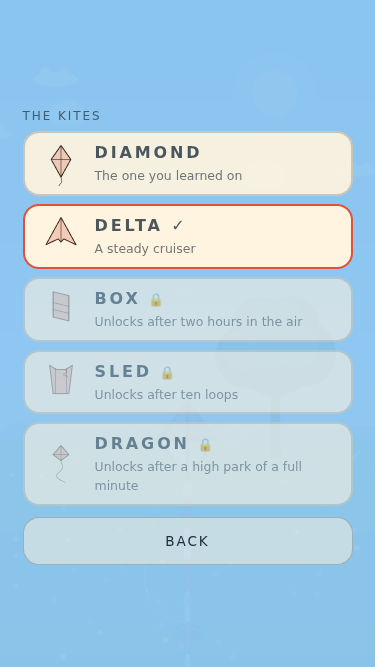
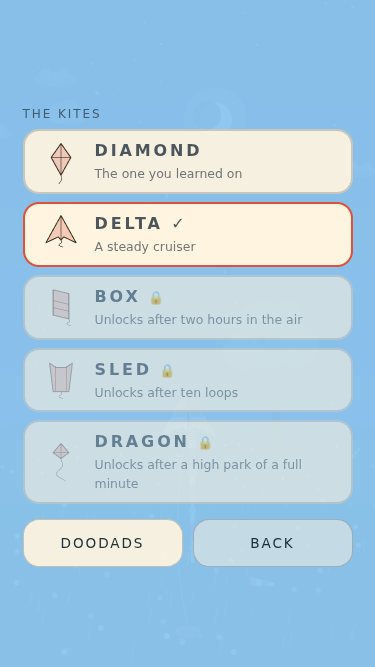
Updraft B4: call 70, short tails hung under the sail on the cards and a Fresh shudder line of 0.85, stamp 20260915a
Claude-Session: https://claude.ai/code/session_01SRMtHXtJx3kNJPZ7viGJpE

Changed region(s): [[0.0587, 0.1499, 0.9387, 0.8696], [0.5573, 0.8096, 0.9387, 0.8696], [0.0587, 0.4798, 0.088, 0.5097]]

diff --git a/satellites/updraft/index.html b/satellites/updraft/index.html
@@ -9,9 +9,9 @@
 <meta name="apple-mobile-web-app-capable" content="yes">
 <meta name="apple-mobile-web-app-status-bar-style" content="black-translucent">
 <meta name="apple-mobile-web-app-title" content="UPDRAFT">
-<link rel="manifest" href="./manifest.webmanifest?v=20260908e">
-<link rel="apple-touch-icon" href="./icon-192.png?v=20260908e">
-<link rel="icon" href="./icon-192.png?v=20260908e">
+<link rel="manifest" href="./manifest.webmanifest?v=20260915a">
+<link rel="apple-touch-icon" href="./icon-192.png?v=20260915a">
+<link rel="icon" href="./icon-192.png?v=20260915a">
 <link rel="canonical" href="https://lucidwinds.com/satellites/updraft/">
 <style>
 /*  UPDRAFT
@@ -185,7 +185,7 @@ html,body{margin:0;padding:0;height:100%;background:#8CC6F0;color:var(--ink);
 #testPanel.on{display:block}
 @media (prefers-reduced-motion:reduce){*{transition-duration:1ms!important}}
 </style>
-<script src="/music-unlocks.js?v=20260908e" defer></script>
+<script src="/music-unlocks.js?v=20260915a" defer></script>
 </head>
 <body>
 <h1 style="position:absolute;width:1px;height:1px;margin:-1px;padding:0;overflow:hidden;clip:rect(0 0 0 0);clip-path:inset(50%);white-space:nowrap;border:0">UPDRAFT</h1>
@@ -326,7 +326,7 @@ var CONFIG = Object.freeze({
   THERMAL_UP: 1.5, THERMAL_R: 12, THERMAL_X: 6, THERMAL_Z: 38, THERMAL_PUSH: 4.5,
   STALL_V: 1.6, STALL_LIFT: 0.15, STALL_FALL: 2, STALL_SINK: 6,
   LEAN_TURN_RATE: 2.2, WINDOW_FLOOR: 0, EL_MAX: 1.0,
-  SNAP_TENSION: 1.0, SNAP_HOLD_S: 0.4, STRAIN_AT: 0.75,
+  SNAP_TENSION: 1.0, SNAP_HOLD_S: 0.4, STRAIN_AT: 0.75, STRAIN_AT_FRESH: 0.85,
   TAIL_PTS: 16, TAIL_SEG: 0.35, TAIL_AIRF: 0.94, TAIL_DRAG: 15, TAIL_CRACK_V: 12,
   SETTLE_S: 1.4, SETTLE_WIND: 5, /* the landing flourish: the tail lays out over the grass for this long, in this much ground wind */
   APPARENT_MASS: 0.4, LINE_MASS: 0.002, MOTION_CD: 1.2, MOTION_V0: 2, RHO: 1.2, G: 9.81,
@@ -396,25 +396,28 @@ var KITE_SHAPE = {
   /* the one everybody draws: a tall lozenge on a cross */
   diamond: { poly: [[0, 1], [0.62, 0.12], [0, -1], [-0.62, 0.12]], spars: [[[0, 1], [0, -1]], [[-0.62, 0.12], [0.62, 0.12]]], tail: 'long' },
   /* a swept wing with a deep keel: wide at the nose, drawn back to a point */
-  delta: { poly: [[0, 1], [0.95, -0.72], [0.18, -0.35], [0, -0.55], [-0.18, -0.35], [-0.95, -0.72]], spars: [[[0, 1], [0, -0.55]]], tail: 'none' },
+  delta: { poly: [[0, 1], [0.95, -0.72], [0.18, -0.35], [0, -0.55], [-0.18, -0.35], [-0.95, -0.72]], spars: [[[0, 1], [0, -0.55]]], tail: 'short', tailAt: [0, -0.55] },
   /* two open cells: the only kite here that is a box and not a sail */
-  box: { poly: [[-0.5, 0.92], [0.5, 0.68], [0.5, -0.92], [-0.5, -0.68]], spars: [[[-0.5, 0.24], [0.5, 0]], [[-0.5, -0.2], [0.5, -0.44]], [[-0.5, 0.92], [-0.5, -0.68]], [[0.5, 0.68], [0.5, -0.92]]], tail: 'none' },
+  box: { poly: [[-0.5, 0.92], [0.5, 0.68], [0.5, -0.92], [-0.5, -0.68]], spars: [[[-0.5, 0.24], [0.5, 0]], [[-0.5, -0.2], [0.5, -0.44]], [[-0.5, 0.92], [-0.5, -0.68]], [[0.5, 0.68], [0.5, -0.92]]], tail: 'short' },
+  /* ⛔ the Delta and the Box said 'none' here until call 70 (a), 2026-09-15: their cards drew no tail while both
+     fly the 5.6 m ribbon, because the ribbon is the physics. Only a card's mark reads this field. */
   /* a sheet of cloth with two spars and no frame across it */
-  sled: { poly: [[-0.72, 0.9], [-0.3, 0.62], [0.3, 0.62], [0.72, 0.9], [0.5, -0.9], [-0.5, -0.9]], spars: [[[-0.36, 0.72], [-0.36, -0.86]], [[0.36, 0.72], [0.36, -0.86]]], tail: 'short' },
+  sled: { poly: [[-0.72, 0.9], [-0.3, 0.62], [0.3, 0.62], [0.72, 0.9], [0.5, -0.9], [-0.5, -0.9]], spars: [[[-0.36, 0.72], [-0.36, -0.86]], [[0.36, 0.72], [0.36, -0.86]]], tail: 'short', tailAt: [0, -0.9] },
   /* a small head and a very long body: the tail IS the kite */
   dragon: { poly: [[0, 1], [0.5, 0.42], [0, 0.05], [-0.5, 0.42]], spars: [[[0, 1], [0, 0.05]], [[-0.5, 0.42], [0.5, 0.42]]], tail: 'serpent' }
 };
 /* the silhouette on a small canvas, for a card. One function, so a kite added to
    KITES without a shape draws the diamond and says so rather than drawing
    nothing at all. */
-function drawKiteMark(c, w, h, id, ink, doodad) {
+function drawKiteMark(c, w, h, id, ink, doodad, noTail) {
   var sh = KITE_SHAPE[id] || KITE_SHAPE.diamond;
-  var s = Math.min(w, h) * 0.36, cx = w / 2, cy = h * 0.44, i;
+  var s = Math.min(w, h) * 0.36, cx = w / 2, cy = h * 0.44, i, low = 0;
   var px = function (p) { return [cx + p[0] * s, cy - p[1] * s]; };
   c.clearRect(0, 0, w, h);
   c.beginPath();
   for (i = 0; i < sh.poly.length; i++) {
     var q = px(sh.poly[i]);
+    if (q[1] > low) low = q[1];
     if (i === 0) c.moveTo(q[0], q[1]); else c.lineTo(q[0], q[1]);
   }
   c.closePath();
@@ -430,8 +433,11 @@ function drawKiteMark(c, w, h, id, ink, doodad) {
     c.beginPath(); c.moveTo(a[0], a[1]); c.lineTo(b[0], b[1]); c.stroke();
   }
   /* the tail, which is half of what tells one kite from another on a shelf */
-  if (sh.tail !== 'none') {
-    var t0 = px(sh.poly[sh.tail === 'serpent' ? 2 : 2]);
+  if (sh.tail !== 'none' && !noTail) {
+    /* ⛔ where the tail hangs from. It was always the third outline point, which is the bottom tip of the
+       Diamond, the Box and the Dragon's head, but a notch INSIDE the Delta's sail and the TOP edge of the
+       Sled's, so those two drew their tail over their own cloth (seen in p2-kites, call 70 (a)) */
+    var t0 = px(sh.tailAt || sh.poly[2]);
     var len = sh.tail === 'serpent' ? h * 0.5 : (sh.tail === 'long' ? h * 0.3 : h * 0.16);
     var amp = sh.tail === 'serpent' ? s * 0.42 : s * 0.2;
     c.beginPath();
@@ -444,6 +450,8 @@ function drawKiteMark(c, w, h, id, ink, doodad) {
     c.stroke();
   }
   if (doodad) drawKiteMarkDoodad(c, w, h, id, doodad);
+  /* the lowest row of the sail, so a gate can ask whether the tail hangs BELOW it */
+  return low;
 }
 /* the worn doodad on a card's mark, small, at the place it rides: a tail thing
    at the tail, a spine thing at the spar crossing, a line thing hanging under
@@ -462,6 +470,11 @@ function drawKiteMarkDoodad(c, w, h, id, doodad) {
   else at = [cx + s * 0.55, cy + s * 0.75];
   drawDoodadIcon(c, d.id, at[0], at[1], s * 0.22, 0, 1);
 }
+/* the tension over its limit at which a kite shudders (the whine, the red border, the buzz). Fresh never snaps,
+   so a Fresh shudder at 0.75 was a warning of nothing: at the squall's top with a gust peak and a full hold the
+   Diamond reaches 0.80 there (call 70 (b), 2026-09-15). Every other mood keeps STRAIN_AT, so the snap in
+   Blustery is still warned before it fires. */
+function strainAt(mood) { return mood === 'fresh' ? CONFIG.STRAIN_AT_FRESH : CONFIG.STRAIN_AT; }
 function kiteById(id) {
   var i; for (i = 0; i < KITES.length; i++) if (KITES[i].id === id) return KITES[i];
   return KITES[0];
@@ -819,7 +832,7 @@ function step(st, dt) {
   var radial = (Ls * sinEl + D * cosEl) * Math.max(0, cosAz) - mK * C.G * sinEl + mEff * sp * sp / st.L;
   st.tension = Math.max(0, radial);
   st.tN = st.tension / k.maxTension;
-  st.strain = st.tN >= C.STRAIN_AT;
+  st.strain = st.tN >= strainAt(st.mood);
   if (st.mood === 'blustery' && st.tN >= C.SNAP_TENSION) {
     st.strainS += dt;
     if (st.strainS >= C.SNAP_HOLD_S) { st.ended = 'snap'; st.endT = st.t; st.events.push({ t: st.t, e: 'snap' }); }
@@ -1313,6 +1326,17 @@ function suiteSnap(T) {
   T.assert('in Fresh it never fires under any script', fresh);
   T.assert('and Fresh tension stays under the limit even at the gust peak', fmax < 1, 'max ' + fmax.toFixed(2));
   T.assert('the strain flag lights before the snap', maxTN > CONFIG.STRAIN_AT && st.events.length > 0);
+  /* call 70 (b), 2026-09-15: Fresh never snaps, so it does not shudder where the Diamond reaches at the squall's
+     top (the wind held at ENV_MAX, a Fresh gust, a full hold) */
+  var sq = newFlight({ mood: 'fresh', kite: 'diamond', seed: 3, wind: { gusts: true, gustFixed: 0.4, thermal: false, turb: false, env: false, veer: false }, L: 40, el: 0.5, launched: true });
+  sq.wind.base *= CONFIG.ENV_MAX;
+  var sqMax = 0, sqLit = 0;
+  runScript(sq, [{ t: 0, hold: true, lean: 0 }], 10, function (x) { if (x.tN > sqMax) sqMax = x.tN; if (x.strain) sqLit++; }, 1 / 120);
+  T.assert('(premise) at the Fresh squall\'s top a held Diamond passes STRAIN_AT', sqMax > CONFIG.STRAIN_AT, 'max ' + sqMax.toFixed(3));
+  T.assert('and it does not shudder, because Fresh never snaps', sqLit === 0, sqLit + ' samples lit, max ' + sqMax.toFixed(3));
+  T.assert('Fresh shudders from its own line, under the snap, and every other mood from STRAIN_AT',
+    strainAt('fresh') === CONFIG.STRAIN_AT_FRESH && CONFIG.STRAIN_AT_FRESH < CONFIG.SNAP_TENSION
+    && strainAt('blustery') === CONFIG.STRAIN_AT && strainAt('gentle') === CONFIG.STRAIN_AT);
 }
 function suiteTail(T) {
   var st = newFlight({ mood: 'fresh', seed: 1, wind: NOGUST, L: 40, el: 0.7, launched: true });
@@ -2361,7 +2385,7 @@ var AUDIO = (function () {
     var w = st.wind.base * (st.env || 1) * (1 + st.gust) * (st.onGround ? 0.5 : 1);
     var bedL = Math.min(0.28, 0.03 + w * 0.022);
     var cut = 250 + w * 90;
-    var over = Math.max(0, (st.tN - CONFIG.STRAIN_AT) / (1 - CONFIG.STRAIN_AT));
+    var sAt = strainAt(st.mood), over = Math.max(0, (st.tN - sAt) / (1 - sAt));
     var wh = st.strain && !st.ended ? Math.min(0.12, 0.04 + over * 0.1) : 0;
     var hz = 200 + 700 * Math.min(1, Math.max(0, st.tN));
     /* the whistle: nothing until the airspeed passes WHISTLE_V, then it rises
@@ -2714,7 +2738,7 @@ function shareDaily(t) {
   fallback();
 }
 
-var STAMP = '20260908e';
+var STAMP = '20260915a';
 function showScreen(name) {
   var ids = { title: 'scrTitle', how: 'scrHow', pause: 'scrPause', mood: 'scrMood', kites: 'scrKites', doodads: 'scrDoodads', journal: 'scrJournal', end: 'scrEnd' }, k;
   for (k in ids) $(ids[k]).classList.toggle('on', k === name);
@@ -3090,6 +3114,22 @@ window.UPDRAFT_DEV = {
   },
   /* a kite card's mark drawn offscreen with a doodad on it, through the same
      drawKiteMark the cards use: its ink and a signature of the picture */
+  /* call 70 (a): the tail a card's mark draws, counted as the pixels that change when the same mark is drawn
+     with the tail left off, through the drawKiteMark the cards use */
+  kiteMarkTail: function (kiteId) {
+    var on = document.createElement('canvas'), off = document.createElement('canvas'), i, changed = 0;
+    on.width = 88; on.height = 88; off.width = 88; off.height = 88;
+    var low = drawKiteMark(on.getContext('2d'), 88, 88, kiteId, '#3A2A18', 'none');
+    drawKiteMark(off.getContext('2d'), 88, 88, kiteId, '#3A2A18', 'none', true);
+    var a = on.getContext('2d').getImageData(0, 0, 88, 88).data, b = off.getContext('2d').getImageData(0, 0, 88, 88).data;
+    var below = 0;
+    for (i = 3; i < a.length; i += 4) {
+      if (Math.abs(a[i] - b[i]) <= 24) continue;
+      changed++;
+      if (Math.floor((i >> 2) / 88) > low + 1) below++;
+    }
+    return { id: kiteId, tailLen: kiteById(kiteId).tailLen, changed: changed, below: below, low: Math.round(low) };
+  },
   kiteMarkSig: function (kiteId, doodadId) {
     var off = document.createElement('canvas'), bare = document.createElement('canvas'), i, ink = 0, sig = 0, changed = 0;
     off.width = 88; off.height = 88; bare.width = 88; bare.height = 88;

diff --git a/portal/index.html b/portal/index.html
@@ -1048,7 +1048,7 @@ var FEATURED = [
   {nm:"Whistlestop", ds:"Snap a wooden train set together on the rug, pull the whistle, and then work the switches so three little trains all get home without meeting nose to nose.", cat:"puzzle", url:"/satellites/whistlestop/?v=20260907d", ic:"🚂", thumb:"/portal-assets/thumbs/whistlestop.png?v=20260907d", beta:true, fresh:true},
   {nm:"Strata", ds:"Brush and chisel a cliff face until a creature nobody has ever seen comes out of the stone. Every skeleton is generated once. Mount it, name it, and hang it in a museum that is only yours.", cat:"creative", url:"/satellites/strata/?v=20260907c", ic:"🦴", thumb:"/portal-assets/thumbs/strata.png?v=20260907c", beta:true, fresh:true},
   {nm:"Gerplunk", ds:"A lake at golden hour, a stone in your hand, and one flick. Angle, speed and spin decide the skips. Count them by ear and chase the record with no clock anywhere.", cat:"action", url:"/satellites/gerplunk/?v=20260914a", ic:"🪨", thumb:"/portal-assets/thumbs/gerplunk.png?v=20260914a", beta:true, fresh:true},
-  {nm:"Updraft", ds:"Go fly a kite. Hold to reel in, let go to give it line, slide to lean. Loops, dives and saves come from your thumb, the tail cracks like a ribbon, and an oak named Mabel is waiting to snag you.", cat:"action", url:"/satellites/updraft/?v=20260908e", ic:"🪁", thumb:"/portal-assets/thumbs/updraft.png?v=20260908e", beta:true, fresh:true},
+  {nm:"Updraft", ds:"Go fly a kite. Hold to reel in, let go to give it line, slide to lean. Loops, dives and saves come from your thumb, the tail cracks like a ribbon, and an oak named Mabel is waiting to snag you.", cat:"action", url:"/satellites/updraft/?v=20260915a", ic:"🪁", thumb:"/portal-assets/thumbs/updraft.png?v=20260915a", beta:true, fresh:true},
   {nm:"Marrowdeep", ds:"Roll a party of dice, decide who faces what, and bury the ones who fall; their callings come back as cards.", cat:"card", url:"/satellites/marrowdeep/?v=20260914a", ic:"🦴", thumb:"/portal-assets/thumbs/marrowdeep.png?v=20260914a", beta:true, fresh:true},
   {nm:"Aura Off", ds:"A gesture duel in a public square. No words, no contact. Reference everything, repeat nothing, and never look like you are trying.", cat:"action", url:"/satellites/aura-off/?v=20260829b", ic:"🥊", thumb:"/portal-assets/thumbs/aura-off.png", beta:true, fresh:true},
   // Hashblock flagships on the workbench (2026-07-30). Both stay beta:true

diff --git a/satellites/updraft/sw.js b/satellites/updraft/sw.js
@@ -12,7 +12,7 @@
    Bump SHELL_VERSION on every deploy, AND the ?v= on the registration in
    index.html in lockstep (they are both the STAMP, and tools/lint.mjs asserts it) — this host edge-pins bare sw.js URLs for 7 days. */
 
-const SHELL_VERSION = "updraft-shell-20260908e";
+const SHELL_VERSION = "updraft-shell-20260915a";
 const SFX_CACHE     = "updraft-unused-v1"; // no recorded audio: every sound is synthesised
 const NAV_TIMEOUT_MS = 8000;
 

diff --git a/plans/updraft/HANDOFF-UPDRAFT.md b/plans/updraft/HANDOFF-UPDRAFT.md
@@ -12,6 +12,19 @@ on branch `add-sproing-jumper` tonight.
 
 ## SESSION STATE (the builder updates this at the end of every session; the morning reader starts here)
 
+- 2026-09-15 (UTC), Opus (HANDOFF-OPUS-SEP15 lane B, B4): **CALL 70 BUILT, stamp `20260915a`** (index.html five
+  places, sw.js, the portal row's two `?v=`). (a) The Delta's and the Box's cards draw the short tail both kites
+  fly; the Delta's and the Sled's tails now hang from under their sails (`tailAt`), found by opening the shot
+  after a first card law went green over them. (b) Fresh shudders from `STRAIN_AT_FRESH` 0.85, Gentle and
+  Blustery from 0.75. Every new law watched red; ALL GATES PASSED, eleven of eleven (section 13, B4).
+  **Left for Stephen:** at the Fresh squall's top with a Fresh gust and a full hold the Delta (0.86 to 0.90),
+  the Dragon (0.83 to 0.87) and the Sled (1.2 to 1.3) still pass 0.85 and still shudder in a mood that never
+  snaps: whether Fresh should shudder at all, or per kite against its own reach, is his (DECISIONS
+  D-2026-09-15). The locked cards' marks at 0.45 alpha hide their tails. **Next action:** Updraft is done for
+  this run. Lane B goes on to B5, Fathom call 71 (the HUM pulse once at the zero line, the grey reticle at zero
+  brightened) and call 62's instrument (a `?fathomtest=1` overlay of stones spent per cave per attempt; the
+  self test's `indexOf('test=1')` also matches `fathomtest=1` and must be parsed exactly first).
+
 - 2026-09-08 (UTC), Fable's reviewer: **REVIEWED THE DOODADS SHELF, NOTHING CHANGED IN THE GAME.** Stamp stays
   `20260908e` (six places, lint green). Read the whole diff (18 files, all inside the fence) and every new gate. My own
   `timeout 2700 flock -w 1800 /tmp/sws-gate.lock node tools/check.js` at 05:30 UTC: **ALL GATES PASSED, eleven of
@@ -992,6 +1005,51 @@ $ node tools/shots.mjs p2-landing / p2-mabel / p3-realwind / p3-daily
 ```
 
 ---
+
+### B4, 2026-09-15, Opus: call 70, the short tails and the Fresh shudder
+
+Baseline first, under the lock, on the tree as found (stamp `20260908e`): ALL GATES PASSED, eleven of eleven
+(lint, test, audio, fly, layout 29 s, kites, doodads 35 s, wind, sun, weather 33 s, daily). Built (DECISIONS,
+D-2026-09-15): (a) `KITE_SHAPE.delta.tail` and `.box.tail` 'none' to 'short', so their cards draw the tail both
+fly; (b) `CONFIG.STRAIN_AT_FRESH` 0.85 through `strainAt(mood)`, read by the flight's strain flag and by the
+whine's level, Gentle and Blustery on `STRAIN_AT` 0.75. Stamp `20260915a` (index.html five places, sw.js, the
+portal row).
+**Measured before (b) went in** (Fresh, wind held at `ENV_MAX`, fixed gust, full hold 10 s, peak tension over the
+kite's limit): Diamond 0.762 / 0.798 / 0.949 at gusts 0.35 / 0.40 / 0.60; Delta 0.862 / 0.902 / 1.071; Box 0.614 /
+0.643 / 0.767; Sled 1.215 / 1.272 / 1.512; Dragon 0.834 / 0.874 / 1.042. So 0.85 ends the Diamond's warning (the
+call's case) and the Box never reached it; **the Delta, the Dragon and the Sled still shudder in Fresh**, which
+still never snaps. Built as called and written up for Stephen.
+**Watched red:**
+```
+sim, STRAIN_AT_FRESH put back at 0.75 (scratch copy):
+  FAIL  and it does not shudder, because Fresh never snaps   [136 samples lit, max 0.798]
+  PASSED 149 / FAILED 1   (total 150)
+kites.mjs, first version of the card law, the Box's tail back at 'none':
+  FAIL  box: flies a 5.6 m tail and its card draws one (0 pixels, wanted 9)
+```
+**The shot found what the first card law could not:** p2-kites showed the Delta's new tail drawn over its own
+sail while the law was green ("delta ... 40 pixels", "sled ... 38 pixels", the Diamond's 35). Every tail hung
+from the third outline point, a notch inside the Delta and the top edge of the Sled. `KITE_SHAPE` takes
+`tailAt` for those two, and the law counts only tail pixels below the sail's lowest row. The full check running
+on the first version was stopped by PID as moot.
+**Watched red, the second law:**
+```
+the two tailAt lines taken out (the old anchor), everything else live:
+  FAIL  delta: flies a 5.6 m tail and its card hangs one below the sail (5 of 40 pixels, wanted 9)
+  FAIL  sled: flies a 5.6 m tail and its card hangs one below the sail (0 of 38 pixels, wanted 9)
+the Box's tail back at 'none':
+  FAIL  box: flies a 5.6 m tail and its card hangs one below the sail (0 of 0 pixels, wanted 9)
+```
+**Live**, alone: "(premise) the Diamond's card hangs its tail below the sail (33 pixels below it)"; delta 28 of 44,
+box 42 of 44, sled 38 of 41, dragon 111 of 113, all over the floor of 9. Sim 150 of 150, lint green.
+**Shot opened** (`p2-kites`, reshot, 45 KB): every card now hangs a tail under its sail, the Delta's from the
+foot of its spine past the wing tips, the Sled's from the middle of its bottom edge. Three faults named and left:
+a short tail on an 88 px mark shown at card size is a 6 to 8 px curl, so the Delta's reads as a squiggle and not
+the 5.6 m ribbon it flies ("short" is the call's word); the locked cards draw their mark at 0.45 alpha, so the
+Box's and the Sled's new tails all but vanish until the kite is earned; the Diamond's long tail is clipped by the
+bottom of its 88 px canvas, so on the card it is barely longer than the short ones.
+`node tools/check.js` under the lock on the final tree: lint, test, audio, fly, layout, kites, doodads, wind, sun,
+weather, daily, ALL GATES PASSED, eleven of eleven.
 
 ## 14. THE OVERNIGHT PROTOCOL
 

diff --git a/satellites/updraft/docs/DECISIONS.md b/satellites/updraft/docs/DECISIONS.md
@@ -198,3 +198,34 @@ Gentle's grass wind should clear the stall.
 **The ear's peak band moved from 0.46 to 0.48.** The whistle at its cap and the bell on the loudest instant joined the
 render; six draws read 0.374 to 0.432 with them (0.359 to 0.422 without). The law the band means is under the ceiling's
 knee at 0.5 with a margin, and 0.48 keeps 0.02 of it; the old 0.46 was a number sat on last week's noise.
+
+**D-2026-09-15 (Opus, HANDOFF-OPUS-SEP15 B4, call 70) The Delta's and the Box's cards draw a short tail, and Fresh
+shudders from 0.85.** Two things the Sep 08 depth build measured and left, both Fable's call:
+(a) `KITE_SHAPE.delta.tail` and `KITE_SHAPE.box.tail` said 'none', so their cards drew no tail, while both kites fly
+the 5.6 m ribbon, because the ribbon is the physics (the crack, the tip speed). The call was "short tail" on the
+cards, the cheaper and truer fix; the other way (both kites lose the ribbon and gain a stability term) would move the
+flight model. The flight is untouched: only the card's mark reads `tail`. One line to reverse each.
+(b) In Fresh at the squall's 1.3 with a gust peak and a full hold the Diamond reaches 0.80 of its tension while the
+shudder (whine, red border, buzz) starts at `STRAIN_AT` 0.75, and Fresh never snaps: a warning of nothing. Fresh
+now shudders from `STRAIN_AT_FRESH` 0.85, one CONFIG number; Gentle and Blustery keep 0.75, so the snap in Blustery
+is still warned before it fires. One line to reverse: set `STRAIN_AT_FRESH` to 0.75.
+**Measured before the number went in, and it does not cover every kite.** Fresh, the squall held at its top (wind
+base times `ENV_MAX` 1.3), a fixed gust, a full hold for 10 s, the peak of the kite's tension over its limit:
+```
+kite      gust 0.35   gust 0.40   gust 0.60
+diamond     0.762       0.798       0.949
+delta       0.862       0.902       1.071
+box         0.614       0.643       0.767
+sled        1.215       1.272       1.512
+dragon      0.834       0.874       1.042
+```
+At a Fresh gust (the mood's amplitude is 0.35) 0.85 ends the Diamond's warning, the call's case, and the Box never
+reached it. The Delta, the Dragon and the Sled still pass 0.85 in Fresh and still shudder, and Fresh still never
+snaps, so for three of five kites the warning is still a warning of nothing. The number built is the call's. Left
+for Stephen: whether Fresh should shudder at all, or shudder per kite against its own reach.
+**And where a card's tail hangs from.** The first shot after the change (p2-kites) showed the Delta's new short tail
+drawn over its own sail, while the first card law was green on it: `drawKiteMark` hung every tail from the third
+outline point, which is the bottom tip of the Diamond, the Box and the Dragon's head but a notch inside the
+Delta's sail and the top edge of the Sled's (the Sled has drawn its tail over its cloth since the cards were
+built). `KITE_SHAPE` takes an optional `tailAt`: the Delta's is the foot of its spine, the Sled's the middle of its
+bottom edge. The law now counts only tail pixels below the sail's lowest row.

diff --git a/HANDOFF-OPUS-SEP15.md b/HANDOFF-OPUS-SEP15.md
@@ -377,6 +377,14 @@ Start now with step 1.
 
 ## 10. REPORTS (the builder appends here, newest first; the morning reader starts at the top)
 
+### 2026-09-15 02:30 UTC, Opus: B4 Updraft call 70, the short tails and the Fresh shudder
+(a) The Delta's and the Box's cards draw the tail both fly; the shot after the first green card law showed the
+Delta's tail drawn over its own sail (and the Sled's, since the cards were built), so tails now hang from under
+the sail and the law counts only pixels below it, watched red on both. (b) Fresh shudders from 0.85. Measured
+first, and it does not cover every kite: the Delta, the Dragon and the Sled still pass 0.85 at a Fresh squall's
+top and still shudder in a mood that never snaps; left for Stephen with the table in DECISIONS. ALL GATES
+PASSED, eleven of eleven, stamp `20260915a`. Next: B5 Fathom calls 71 and 62's instrument.
+
 ### 2026-09-15 01:40 UTC, Opus: B3 Airworthy call 61 part two, the weight crease
 The last crease asks what is taped on the nose: Nothing, A paperclip, A penny shut until a bronze. It writes
 what the TRIM shelf writes, starts on Nothing, moves no medal and no record. Flown first: the penny settles
